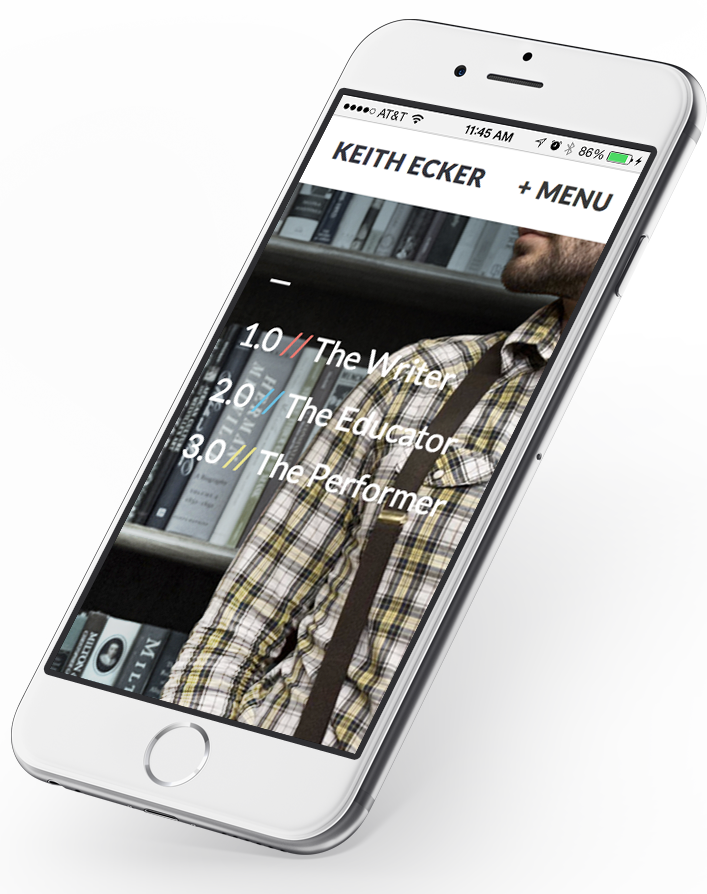
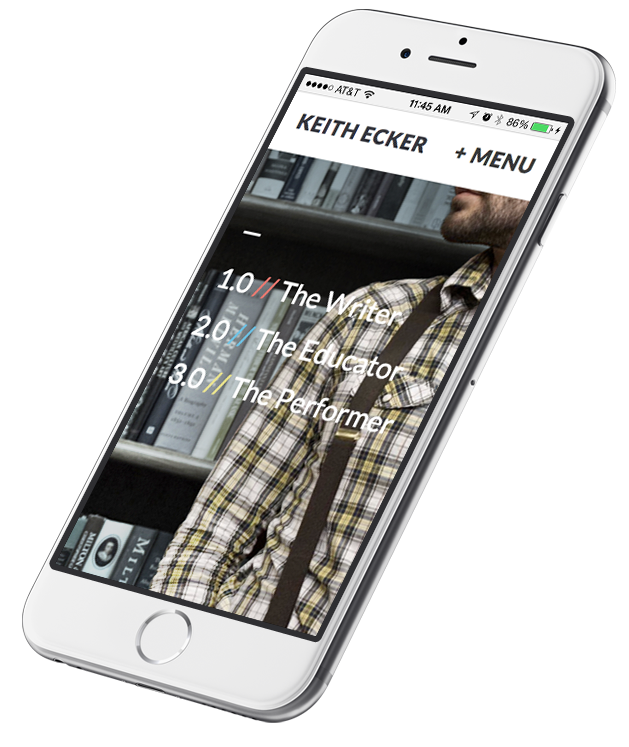
Adding Motion Added some scroll animations and cleaned up a few display issues

Changed region(s): [[0.0, 0.0308, 1.0, 1.0], [0.5437, 0.0, 0.6645, 0.0308], [0.3927, 0.3079, 0.4229, 0.3387]]

diff --git a/_dev/scss/libs/_components.scss b/_dev/scss/libs/_components.scss
@@ -11,13 +11,14 @@
     @include justify-content(center);
 
     p{
-      font-family: "freight-text-pro", sans-serif;
       @include flexcolumn(10);
       @include align-self(flex-end);
       font-size: ms(1);
       line-height: 1.5;
+      font-weight:400;
       color: $hippie;
       mix-blend-mode: multiply;
+      position:relative;
 
       @media screen and (min-width:40em){
         @include flexcolumn(6);
@@ -98,10 +99,6 @@
   mix-blend-mode: overlay;
   fill: $white;
   opacity:.75;
-
-  .svg{
-    transition: fill 300ms ease-in-out;
-  }
 }
 
 
@@ -133,42 +130,49 @@
   padding:5vh 0;
   position:relative;
 
-  &:before{
+  // Psuedo Numbers
+  // ---------------------------------------------------------------------------
+  &--counter{
     counter-increment: section;
     content: counter(section);
     display:block;
     font-size: ms(18);
-    font-family: "freight-text-pro", sans-serif;
-    font-style:italic;
+    font-weight:900;
     color:$white;
     opacity:.3;
     position:absolute;
-    bottom:30%;
+    bottom:0px;
     z-index:-1;
   }
 
-  &[image-align="right"]:before{
-    right:-15%;
+  &[image-align="right"]{
+    .portfolio-item--counter{
+      right:-15%;
+    }
   }
 
-  &[image-align="left"]:before{
-    left:-15%;
+  &[image-align="left"]{
+    .portfolio-item--counter{
+      left:-15%;
+    }
   }
 
   @media screen and (min-width:40em){
-    &:before{
-      bottom:20%;
-      font-size:ms(22);
-    }
-      &[image-align="right"]:before{
-      right:-10%;
+    &[image-align="right"]{
+      .portfolio-item--counter{
+        right:-10%;
+      }
     }
 
-    &[image-align="left"]:before{
-      left:-10%;
+    &[image-align="left"]{
+      .portfolio-item--counter{
+        left:-10%;
+      }
     }
   }
 
+  // Content Types - Image V.S. Copy
+  // ---------------------------------------------------------------------------
   &--content{
     text-align:center;
     padding:0 20px;
@@ -176,6 +180,7 @@
     h2{
       font-weight:900;
       font-size: ms(4);
+      margin:.25em 0 1em 0;
 
       a{
         text-decoration:none;
@@ -184,20 +189,37 @@
     }
 
     .category{
-      position:absolute;
-      transform: rotate(-90deg);
+      font-family: "sofia-pro",sans-serif;
+      text-transform: uppercase;
+      font-weight:500;
+      letter-spacing: .5em;
+      font-size: ms(-1);
     }
   }
 
   @media screen and (min-width:40em){
 
     &--content{
+      display:block;
       text-align:left;
-      padding:0;
+      width:45%;
+      margin:0;
+      padding:10% 0 10% 10%;
 
       h2{
-        font-size: ms(9);
+        font-size: ms(7);
       }
+
+      .excerpt{
+        font-size: ms(1);
+      }
+    }
+
+    &--image{
+      display:block;
+      width:55%;
+      margin:0;
+      padding:0;
     }
 
     &[image-align="right"]{
@@ -223,22 +245,6 @@
     &[image-offset="left"]{
       .portfolio-item--image{
         margin-left:-5%;
-      }
-    }
-
-    .portfolio-item{
-      &--image{
-        display:block;
-        width:60%;
-        margin:0;
-        padding:0;
-      }
-
-      &--content{
-        display:block;
-        width:40%;
-        margin:0;
-        padding:10% 25px;
       }
     }
   }

diff --git a/_dev/js/site.js b/_dev/js/site.js
@@ -1,36 +1,43 @@
-//get original height and margin-top outside scroll
-// var logo        = $('.logo'),
-//     imageHeight = parseInt( logo.css('height') ),
-//     imageWidth  = parseInt( logo.css('width') ),
-//     imageTop    = parseInt( logo.css('top') ),
-//     stopHeight  = imageHeight / 8,
-//     stopWidth   = imageWidth / 8,
-//     stopTop     = imageTop / 8;
+// Append the counter span to each element
+$('.portfolio-item').each(function(i) {
+   $(this).append('<span class="portfolio-item--counter">' + (++i) + '</span>');
+});
 
-// $(window).scroll(function(e) {
+// Parallax those counters
+$('.portfolio-item--counter').each(function(){
+	var counter 						= $(this);
 
-//   var windowScroll  = $(window).scrollTop(),
-//       newHeight     = imageHeight - windowScroll,
-//       newWidth      = imageWidth - windowScroll,
-//       newTop        = imageTop - windowScroll;
+	$(window).scroll(function() {
+		var windowScroll  		= $(window).scrollTop(),
+				counterScrolled 	= windowScroll / 35,
+				counterPosition 	= counterScrolled + '%';
 
-//   if ( newHeight >= stopHeight && newWidth >= stopWidth ){
-//     logo.css("height", newHeight);
-//     logo.css("width", newWidth);
+		counter.css({ bottom: counterPosition });
+	});
+});
 
-//     if (newTop >= stopTop){
-//       logo.css("top", newTop)
-//     }
-//   } else {
-//     logo.css("height", stopHeight);
-//     logo.css("width", stopWidth);
-//     logo.css("top", stopTop)
+//Parallax homepage stuff
+var intro								= $('.main-intro p'),
+		headlineOne 				= $('.site-title-first'),
+		headlineTwo 				= $('.site-title-second'),
+		headlineThree 			= $('.site-title-third');
 
-//   }
+$(window).scroll(function() {
+	var windowScroll  		= $(window).scrollTop(),
+			introScrolled			= windowScroll / 15,
+			headlineScrolled	= windowScroll / 70,
+			introPosition 		= introScrolled,
+			hOnePosition 			= 4 + headlineScrolled + 'vw',
+			hTwoPosition 			= 12 - headlineScrolled + 'vw',
+			hThreePosition 		= -2 + headlineScrolled + 'vw';
 
-//   if ( logo.height() <= 80 ){
-//     logo.attr('done-scrolling', 'true');
-//   } else {
-//     logo.attr('done-scrolling', 'false');
-//   }
-// });
+	if(introPosition <= 55){
+		intro.css({ marginBottom: '-' + introPosition + '%' });
+	} else {
+		intro.css({ marginBottom: '-55%'});
+	}
+	headlineOne.css({ left: hOnePosition });
+	headlineTwo.css({ left: hTwoPosition });
+	headlineThree.css({ left: hThreePosition });
+	console.log(introPosition);
+});

diff --git a/_includes/project-preview.html b/_includes/project-preview.html
@@ -1,11 +1,14 @@
 <ul class="portfolio">
 	{% for post in site.categories.projects %}
 		<li class="portfolio-item {{ post.class }}" image-align="{{ post.image-align }}" {% if post.image-offset %} image-offset="{{ post.image-offset }}" {% endif %}>
-			<img class="portfolio-item--image" src="{{ post.banner | prepend: site.baseurl }}" alt="{{ post.title }}" />
+			<span class="portfolio-item--counter"></span>
+			<div class="portfolio-item--image">
+				<img src="{{ post.banner | prepend: site.baseurl }}" alt="{{ post.title }}" />
+			</div>
 			<div class="portfolio-item--content">
+				<p class="category">{{ post.projectType }}</p>
 				<h2><a href="{{ post.url | prepend: site.baseurl }}">{{ post.title }}</a></h2>
 				<p class="excerpt">{{ post.excerpt }}</p>
-				<p class="category">{{ post.projectType }}</p>
 			</div>
 		</li>
 	{% endfor %}

diff --git a/_dev/scss/libs/_global.scss b/_dev/scss/libs/_global.scss
@@ -2,12 +2,28 @@
 //	Global Styles
 //------------------------------------------------------------------------------
 
-body {
-	@include clearfix;
+html{
 	height:100%;
 	width: 100%;
+
+	&.wf-loading body{
+		opacity:0;
+		position:relative;
+		top:5vh;
+		transition:opacity 300ms ease-in-out, top 400ms ease-in-out;
+	}
+
+	&.wf-active body{
+		opacity:1;
+		top:0;
+	}
+
+}
+
+body {
+	@include clearfix;
 	background-image: linear-gradient(130deg, lighten($mint, 15%), $mint, darken($mint, 15%), lighten($royal, 15%), $royal, darken($royal, 15%));
-	background-size: 1000% 1000%;
+	background-size: 1200% 1200%;
 	animation: AnimationName 30s ease infinite;
 	overflow-x: hidden;
 }

diff --git a/_dev/scss/libs/_typography.scss b/_dev/scss/libs/_typography.scss
@@ -10,12 +10,11 @@ html{
 
 
 body{
-	font-family: "freight-sans-pro", sans-serif;
+	font-family: "adobe-caslon-pro",serif;
 	-webkit-font-smoothing: antialiased;
-	color:$thunder;
+	color:$slate;
 	font-size:16px;
 	line-height: 1.33;
-	font-weight:300;
 }
 
 
@@ -23,11 +22,13 @@ body{
 //	Modular Scale
 //------------------------------------------------------------------------------
 h1, h2, h3, h4, h5, h6{
+	font-family: "sofia-pro",sans-serif;
 	font-weight:900;
 	color: $heading-color;
 	margin: 1em 0 .5em 0;
 	line-height:1.2;
 	font-weight:300;
+	letter-spacing:-0.01em;
 }
 
 ol, ul, small, bold, strong, p{

diff --git a/_dev/scss/libs/_colors.scss b/_dev/scss/libs/_colors.scss
@@ -5,6 +5,7 @@
 // Typographic Colors
 $thunder							: #292628;
 $hippie								: #5DA6B6;
+$slate 								: #626776;
 
 // Mood Colors
 $mint									: #BAEAF3;
